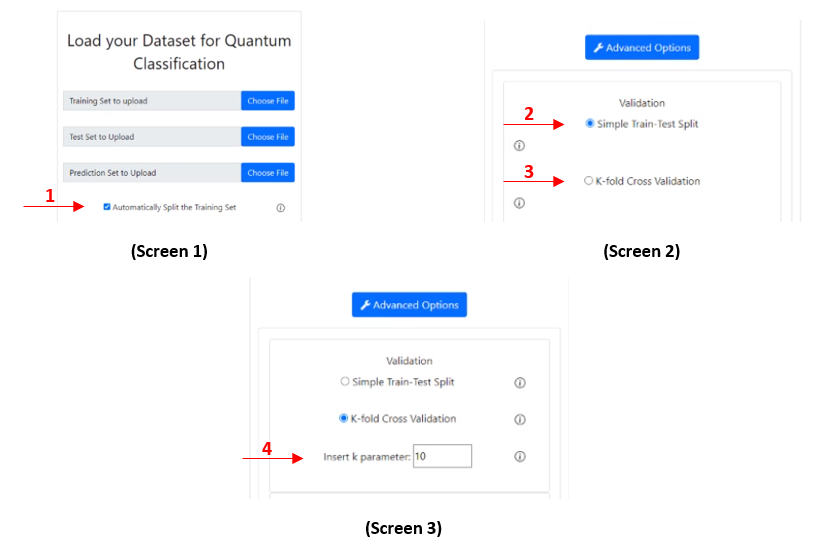
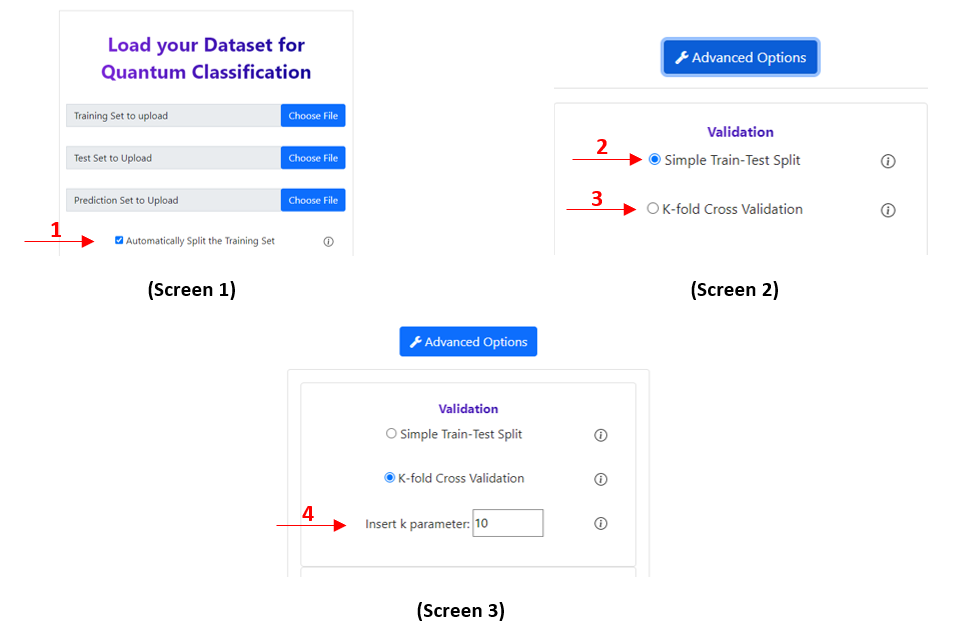
Updated faq's with new screens

diff --git a/app/templates/getStarted.html b/app/templates/getStarted.html
@@ -185,9 +185,7 @@ span {
                     <br>
                     <img src="../static/images/getStarted/VALIDATION.png" alt="validation"/>
                     <br>
-                    <p>If you load two dataset (Train and Test) the validation process will only format those datasets for the next step.</p
-                    <br><br><br>
-                    <h2><b>SimpleSplit and KFold Algorithms</b></h2>
+                    <p>If you load two dataset (Train and Test) the validation process will only format those datasets for the next step.</p>
                     <br><br><br>
                 </div>
             </div>
@@ -198,11 +196,11 @@ span {
                 <!-- faq answer -->
                 <div class="faq-body">
                     <p>For preprocessing you can choose to Reduce columns with Feature Extraction (PCA) <b>(<span>5</span> – Screen 4)</b> or Feature Selection (K Best) <b>(<span>6</span> – Screen 4)</b> and/or Reduce rows with Prototype Selection <b>(<span>7</span> – Screen 4)</b>.
-                        In the advanced options you can insert the number of columns and rows to reduce (Default is 2 columns and 100 rows). <b>(<span>8 - 9</span> – Screen 5)</b></p>
+                        In the advanced options you can insert the number of columns for Feature Extraction and Feature Selection and the number of rows for Prototype Selection to reduce (Default is 2 columns and 100 rows). <b>(<span>8 - 9 - 10</span> – Screen 5)</b></p>
                     <br>
-                    <img src="../static/images/getStarted/PREPROCESSING.png" alt="preprocessing1" />
+                    <img src="../static/images/getStarted/PREPROCESSING1.png" alt="preprocessing1" />
                     <br>
-                    <p>In the advanced options there are 2 checkboxes for Data Imputation <b>(<span>10</span> – Screen 6)</b> and Data balancing <b>(<span>11</span> – Screen 6)</b> and also for MinMax <b>(<span>12</span> – Screen 6)</b> or Standard Scaling <b>(<span>13</span> – Screen 6)</b>.</p>
+                    <p>In the advanced options there are 2 checkboxes for Data Imputation <b>(<span>11</span> – Screen 6)</b> and Data balancing <b>(<span>12</span> – Screen 6)</b> and also for MinMax <b>(<span>13</span> – Screen 6)</b> or Standard Scaling <b>(<span>14</span> – Screen 6)</b>.</p>
                     <img src="../static/images/getStarted/PREPROCESSING2.png" alt="preprocessing2" />
                 </div>
             </div>
